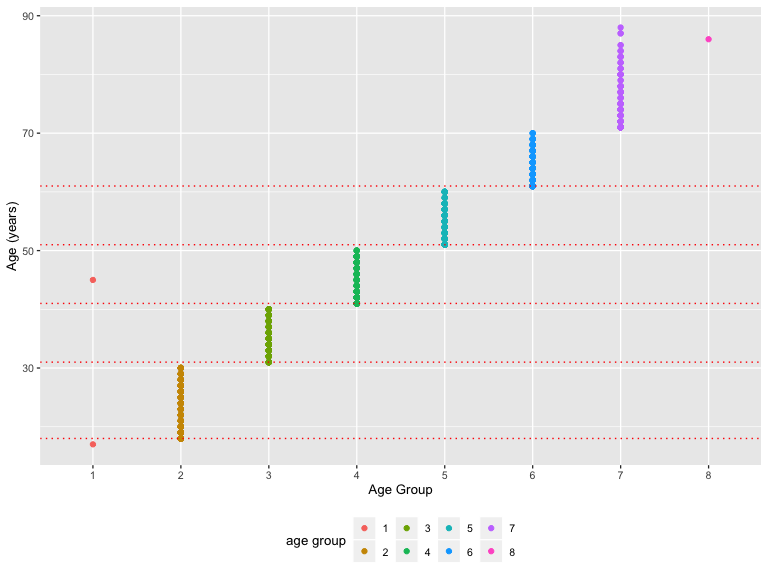
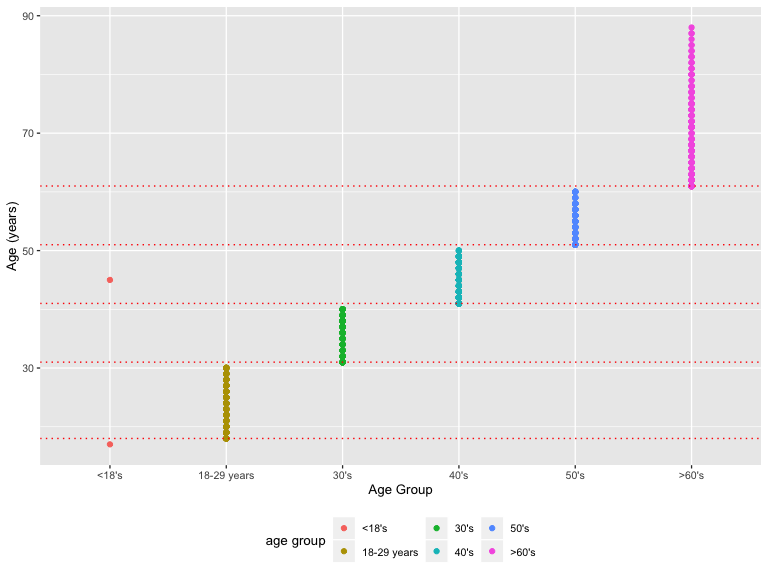
Update the solutions and start writing descriptions.

diff --git a/p8105_mtp_jc5314.md b/p8105_mtp_jc5314.md
@@ -3,15 +3,23 @@ P8105 Midterm Project
 Junxian Chen (jc5314)
 10/18/2019
 
-# Introduction:
+## Introduction:
 
-# Problem 1
+An article was published on Nature Scientific Reports in 2018 which
+describing relationship between forward head protraction (FHP) and
+enlarged external occipital protuberance (EEOP). The researchers
+analyzed data from people with different ages and sex, and pointed out
+that the prominent exostosis were more substantial and prevalent in
+young adults than older groups. However, people were skeptical about
+this study and a published author correction indicated that errors or
+defects existed in the original work. In this project, the data that
+accompany the author correction from this study are used to test if
+mistakes are still exist and to exam whether the results are consistent
+with that reported in the article.
 
-Load the R packages:
+## Section 1: Dataset
 
-Load, clean and tidy the dataset (the raw dataset and the dataset after
-cleaning were seperated so that we can go back and check the raw data
-when possible mistakes were found):
+### 1.1 Dataset Description
 
 ``` r
 raw_data = 
@@ -26,13 +34,41 @@ mtp_data =
   mutate(
     sex = as.character(sex),
     age = as.integer(age),
-    age_group = factor(age_group, levels = c('1', '2', '3', '4', '5', '6', '7', '8')),
+    age_group = case_when(
+      age_group  %in% c('6', '7', '8') ~ '6+', 
+      TRUE ~ age_group ),
+    age_group = factor(age_group, levels = c('1', '2', '3', '4', '5', '6+')),
     eop_size = factor(eop_size, levels = c('0', '1', '2', '3', '4', '5')),
     eop_visibility_classification = factor(eop_visibility_classification, levels = c('0', '1', '2')),
     eop_shape = as.character(eop_shape),
     fhp_category = factor(fhp_category, levels = c('0', '1', '2', '3', '4', '5', '6', '7'))
   )
+
+str(mtp_data)
 ```
+
+    ## Classes 'tbl_df', 'tbl' and 'data.frame':    1221 obs. of  9 variables:
+    ##  $ sex                          : chr  "1" "1" "0" "1" ...
+    ##  $ age                          : int  18 26 22 20 27 28 17 21 25 30 ...
+    ##  $ age_group                    : Factor w/ 6 levels "1","2","3","4",..: 2 2 2 2 2 2 1 2 2 2 ...
+    ##  $ eop_size_mm                  : num  14.8 17.1 0 23.9 0 7.9 6.4 9.4 0 16.5 ...
+    ##  $ eop_size                     : Factor w/ 6 levels "0","1","2","3",..: 3 4 1 5 1 2 2 2 1 4 ...
+    ##  $ eop_visibility_classification: Factor w/ 3 levels "0","1","2": 3 3 2 3 1 3 3 3 1 3 ...
+    ##  $ eop_shape                    : chr  "3" "3" "0" "1" ...
+    ##  $ fhp_size_mm                  : num  34.7 32.9 28.1 11 19.3 27.6 30.6 27.8 26.2 21 ...
+    ##  $ fhp_category                 : Factor w/ 8 levels "0","1","2","3",..: 4 4 3 2 2 3 4 3 3 3 ...
+
+The raw dataset was imported and cleaned. (Because the raw dataset would
+be used later to illustrate mistakes, the process of importing and
+cleaning were seperated here). In the data cleaning, missing values were
+filled according to the header information, variable types were
+modified, and orders were given to the factor variables. Since the
+article used all individuls older than 60 as a whole ‘\>60’ group, those
+people were all assigned as ‘6+’ under the `age_group` variables here to
+facilitate furthur analyses.
+
+After data cleaning, the resulting dataset, named `mtp_data`, contains
+1221 observations (i.e. the number of participants) and 9 variables.
 
 ``` r
 mtp_data %>% 
@@ -43,7 +79,7 @@ mtp_data %>%
       age_group == '3' ~ '31-40',
       age_group == '4' ~ '41-50',
       age_group == '5' ~ '51-60',
-      age_group %in% c('6', '7', '8') ~ 'larger than 60'
+      age_group == '6+' ~ 'larger than 60'
     )
   ) %>% 
   group_by(sex, age_group) %>% 
@@ -66,9 +102,7 @@ mtp_data %>%
 | larger than 60 |    155 |  150 |
 | less than 18   |      1 |    1 |
 
-Dataset description:
-
-Issues in the dataset:
+### 1.2 Issues Noticed in Dataset:
 
 1)  One mistake in the age group ‘1’.
 
@@ -81,8 +115,15 @@ mtp_data %>%
   geom_hline(yintercept = c(18, 31, 41, 51, 61), color = 'red', linetype = 'dotted') + 
   xlab('Age Group') +
   ylab('Age (years)') +
-  scale_color_hue(name = "age group")
+  scale_color_hue(name = "age group") +
+  scale_x_discrete(
+    labels = c("<18's", "18-29 years","30's", "40's", "50's", ">60's")) +
+  scale_color_hue(name = "age group",
+                  labels = c("<18's", "18-29 years","30's", "40's", "50's", ">60's"))
 ```
+
+    ## Scale for 'colour' is already present. Adding another scale for
+    ## 'colour', which will replace the existing scale.
 
 <img src="p8105_mtp_jc5314_files/figure-gfm/unnamed-chunk-5-1.png" width="90%" />
 
@@ -96,7 +137,7 @@ mtp_data %>%
   geom_hline(yintercept = c(5, 10, 15, 20, 25), color = 'red', linetype = 'dotted') + 
   xlab('EOP Size Group') +
   ylab('EOP Size (mm)') +
-  scale_color_hue(name = "age group")
+  scale_color_hue(name = "eop size group")
 ```
 
 <img src="p8105_mtp_jc5314_files/figure-gfm/unnamed-chunk-6-1.png" width="90%" />
@@ -153,20 +194,12 @@ raw_data[row_na,] %>%
 | --: | --: | :-------- | ------------: | :------- | ----------------------------: | --------: | ------------: | :----------- |
 |   0 |  51 | 5         |            NA | 0        |                             0 |        NA |          30.3 | 30.8         |
 
-# Problem 2
-
-``` r
-plot_df = 
-  mtp_data %>% 
-  mutate(
-    age_group = factor(age_group, labels = c('1', '2', '3', '4', '5', '6', '6', '6')),
-    droplevels(age_group)) %>% 
-  filter(age_group != '1')
-```
+## Section 2: Visualization Improvement
 
 ``` r
 fhp_plot =
-  plot_df %>% 
+  mtp_data %>% 
+  filter(age_group != '1') %>% 
   drop_na(fhp_size_mm) %>% 
   ggplot(aes(x = age_group, y = fhp_size_mm, fill = sex)) +
   geom_boxplot() +
@@ -195,7 +228,8 @@ fhp_plot =
 
 ``` r
 eeop_plot = 
- plot_df %>% 
+  mtp_data %>% 
+  filter(age_group != '1') %>% 
   mutate(
     eeop = case_when(
       eop_size_mm > 10 ~ 'y',
@@ -224,11 +258,12 @@ eeop_plot =
 fhp_plot / eeop_plot
 ```
 
-<img src="p8105_mtp_jc5314_files/figure-gfm/unnamed-chunk-14-1.png" width="90%" />
+<img src="p8105_mtp_jc5314_files/figure-gfm/unnamed-chunk-13-1.png" width="90%" />
 
 ``` r
 fhp_eop_plot = 
-  plot_df %>% 
+  mtp_data %>% 
+  filter(age_group != '1') %>% 
   drop_na(fhp_size_mm) %>% 
   filter(eop_size_mm != 0) %>% 
   ggplot(aes(x = fhp_size_mm, y = eop_size_mm, color = sex)) +
@@ -252,9 +287,9 @@ fhp_eop_plot =
 fhp_eop_plot
 ```
 
-<img src="p8105_mtp_jc5314_files/figure-gfm/unnamed-chunk-15-1.png" width="90%" />
+<img src="p8105_mtp_jc5314_files/figure-gfm/unnamed-chunk-14-1.png" width="90%" />
 
-# Problem 3
+## Section 3: Reproducing reported results
 
 Are the authors’ stated sample sizes in each age group consistent with
 the data you have available? Ans:No.
@@ -273,9 +308,7 @@ mtp_data %>%
 | 3          | 204 |
 | 4          | 207 |
 | 5          | 200 |
-| 6          | 178 |
-| 7          | 126 |
-| 8          |   1 |
+| 6+         | 305 |
 
 ``` r
 mtp_data %>% 
@@ -340,46 +373,54 @@ and specific values consistent with your data? Ans: Yes. No.
 
 ``` r
 p1 = 
-plot_df %>% 
+  mtp_data %>% 
+  filter(age_group != '1') %>% 
   drop_na(fhp_category) %>% 
   ggplot(aes(x = age_group, y = fhp_size_mm)) +
-  geom_violin()
+  geom_violin() +
+  xlab('Age Group') +
+  ylab('FHP Size (mm)') +
+  scale_x_discrete(
+    labels = c("18-29 years","30's", "40's", "50's", ">60's"))
   
 p2 = 
-plot_df %>% 
+  mtp_data %>% 
+  filter(age_group != '1') %>% 
   drop_na(fhp_category) %>% 
   group_by(age_group) %>% 
   count(fhp_category) %>% 
   mutate(rate = prop.table(n)) %>%  
   ggplot(aes(x = fhp_category, y = rate)) +
   geom_col() +
-  facet_grid(~age_group)
+  xlab('FHP Categroy') +
+  ylab('Rate') +
+  facet_grid(~age_group) 
 
 p1 / p2
 ```
 
-<img src="p8105_mtp_jc5314_files/figure-gfm/unnamed-chunk-19-1.png" width="90%" />
+<img src="p8105_mtp_jc5314_files/figure-gfm/unnamed-chunk-18-1.png" width="90%" />
 
 ``` r
-plot_df %>% 
+mtp_data %>% 
+  filter(age_group != '1') %>% 
+  drop_na(fhp_category) %>% 
   group_by(age_group) %>% 
   count(fhp_category) %>% 
   mutate(rate = prop.table(n)) %>%
-  filter(age_group == '6' & fhp_category %in% c('4', '5', '6', '7')) %>% 
+  filter(age_group == '6+' & fhp_category %in% c('4', '5', '6', '7')) %>% 
   summarize(sum = sum(rate))
 ```
 
     ## # A tibble: 1 x 2
     ##   age_group   sum
     ##   <fct>     <dbl>
-    ## 1 6         0.325
+    ## 1 6+        0.325
 
-# Problem 4
+## Section 4: Summary and Discussions
 
 Summarize your results, the quality of the data analysis / presentation
 of results in the original report, and comment on the conclusions of the
 reports’ authors. Do you think the data provide evidence that cell
 phones are causing horn growth? What other data would you like to have
 to address this hypothesis?
-
-# Problem 4
